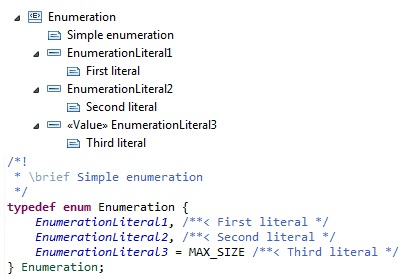
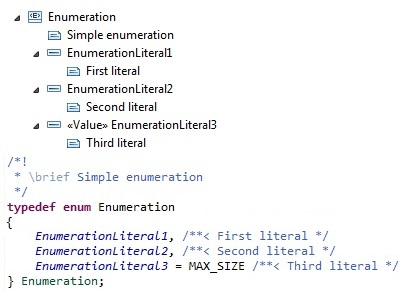
[477812] Open accolade next line for enumeration
The accolade is now at the right place

Bug: 477812

diff --git a/org.eclipse.umlgen.gen.embedded.c/tests/org.eclipse.umlgen.gen.embedded.c.tests/src-gen/Package1/Package2/aClass.h b/org.eclipse.umlgen.gen.embedded.c/tests/org.eclipse.umlgen.gen.embedded.c.tests/src-gen/Package1/Package2/aClass.h
@@ -111,7 +111,8 @@ typedef struct struct3_t
  * <b>Requirements traceability</b>
  *      - REQ_FUNC_001
  */
-typedef enum enum1 {
+typedef enum enum1
+{
     leteral1 = MAX_SIZE, /**< Comment of leteral1 */
     leteral2, /**< Comment of leteral2 */
     leteral3 = 255 /**< Comment of leteral3 */
@@ -120,7 +121,8 @@ typedef enum enum1 {
 /*! 
  * \brief Comment of enum1
  */
-enum enum2 {
+enum enum2
+{
     leteral4 = MAX_SIZE /**< Comment of leteral4 */
 };
 typedef uint16 enum2;

diff --git a/org.eclipse.umlgen.gen.embedded.c/tests/org.eclipse.umlgen.gen.embedded.c.tests/src-gen/Package1/Package2/aSingleton.h b/org.eclipse.umlgen.gen.embedded.c/tests/org.eclipse.umlgen.gen.embedded.c.tests/src-gen/Package1/Package2/aSingleton.h
@@ -111,7 +111,8 @@ typedef struct struct3_t
  * <b>Requirements traceability</b>
  *      - REQ_FUNC_001
  */
-typedef enum enum1 {
+typedef enum enum1
+{
     leteral1 = MAX_SIZE, /**< Comment of leteral1 */
     leteral2, /**< Comment of leteral2 */
     leteral3 = 255 /**< Comment of leteral3 */
@@ -120,7 +121,8 @@ typedef enum enum1 {
 /*! 
  * \brief Comment of enum1
  */
-enum enum2 {
+enum enum2
+{
     leteral4 = MAX_SIZE /**< Comment of leteral4 */
 };
 typedef uint16 enum2;

diff --git a/org.eclipse.umlgen.gen.embedded.c/tests/org.eclipse.umlgen.gen.embedded.c.tests/src-gen/Package1/Package2/anObject.h b/org.eclipse.umlgen.gen.embedded.c/tests/org.eclipse.umlgen.gen.embedded.c.tests/src-gen/Package1/Package2/anObject.h
@@ -111,7 +111,8 @@ typedef struct struct3_t
  * <b>Requirements traceability</b>
  *      - REQ_FUNC_001
  */
-typedef enum enum1 {
+typedef enum enum1
+{
     leteral1 = MAX_SIZE, /**< Comment of leteral1 */
     leteral2, /**< Comment of leteral2 */
     leteral3 = 255 /**< Comment of leteral3 */
@@ -120,7 +121,8 @@ typedef enum enum1 {
 /*! 
  * \brief Comment of enum1
  */
-enum enum2 {
+enum enum2
+{
     leteral4 = MAX_SIZE /**< Comment of leteral4 */
 };
 typedef uint16 enum2;

diff --git a/org.eclipse.umlgen.gen.embedded.c/tests/org.eclipse.umlgen.gen.embedded.c.tests/src-gen/Package1/Package1.h b/org.eclipse.umlgen.gen.embedded.c/tests/org.eclipse.umlgen.gen.embedded.c.tests/src-gen/Package1/Package1.h
@@ -108,7 +108,8 @@ typedef double float64;
 /*! 
  * \brief Boolean type.
  */
-enum Boolean {
+enum Boolean
+{
     False = 0, /**< Logical False */
     True = 1U /**< Logical True */
 };
